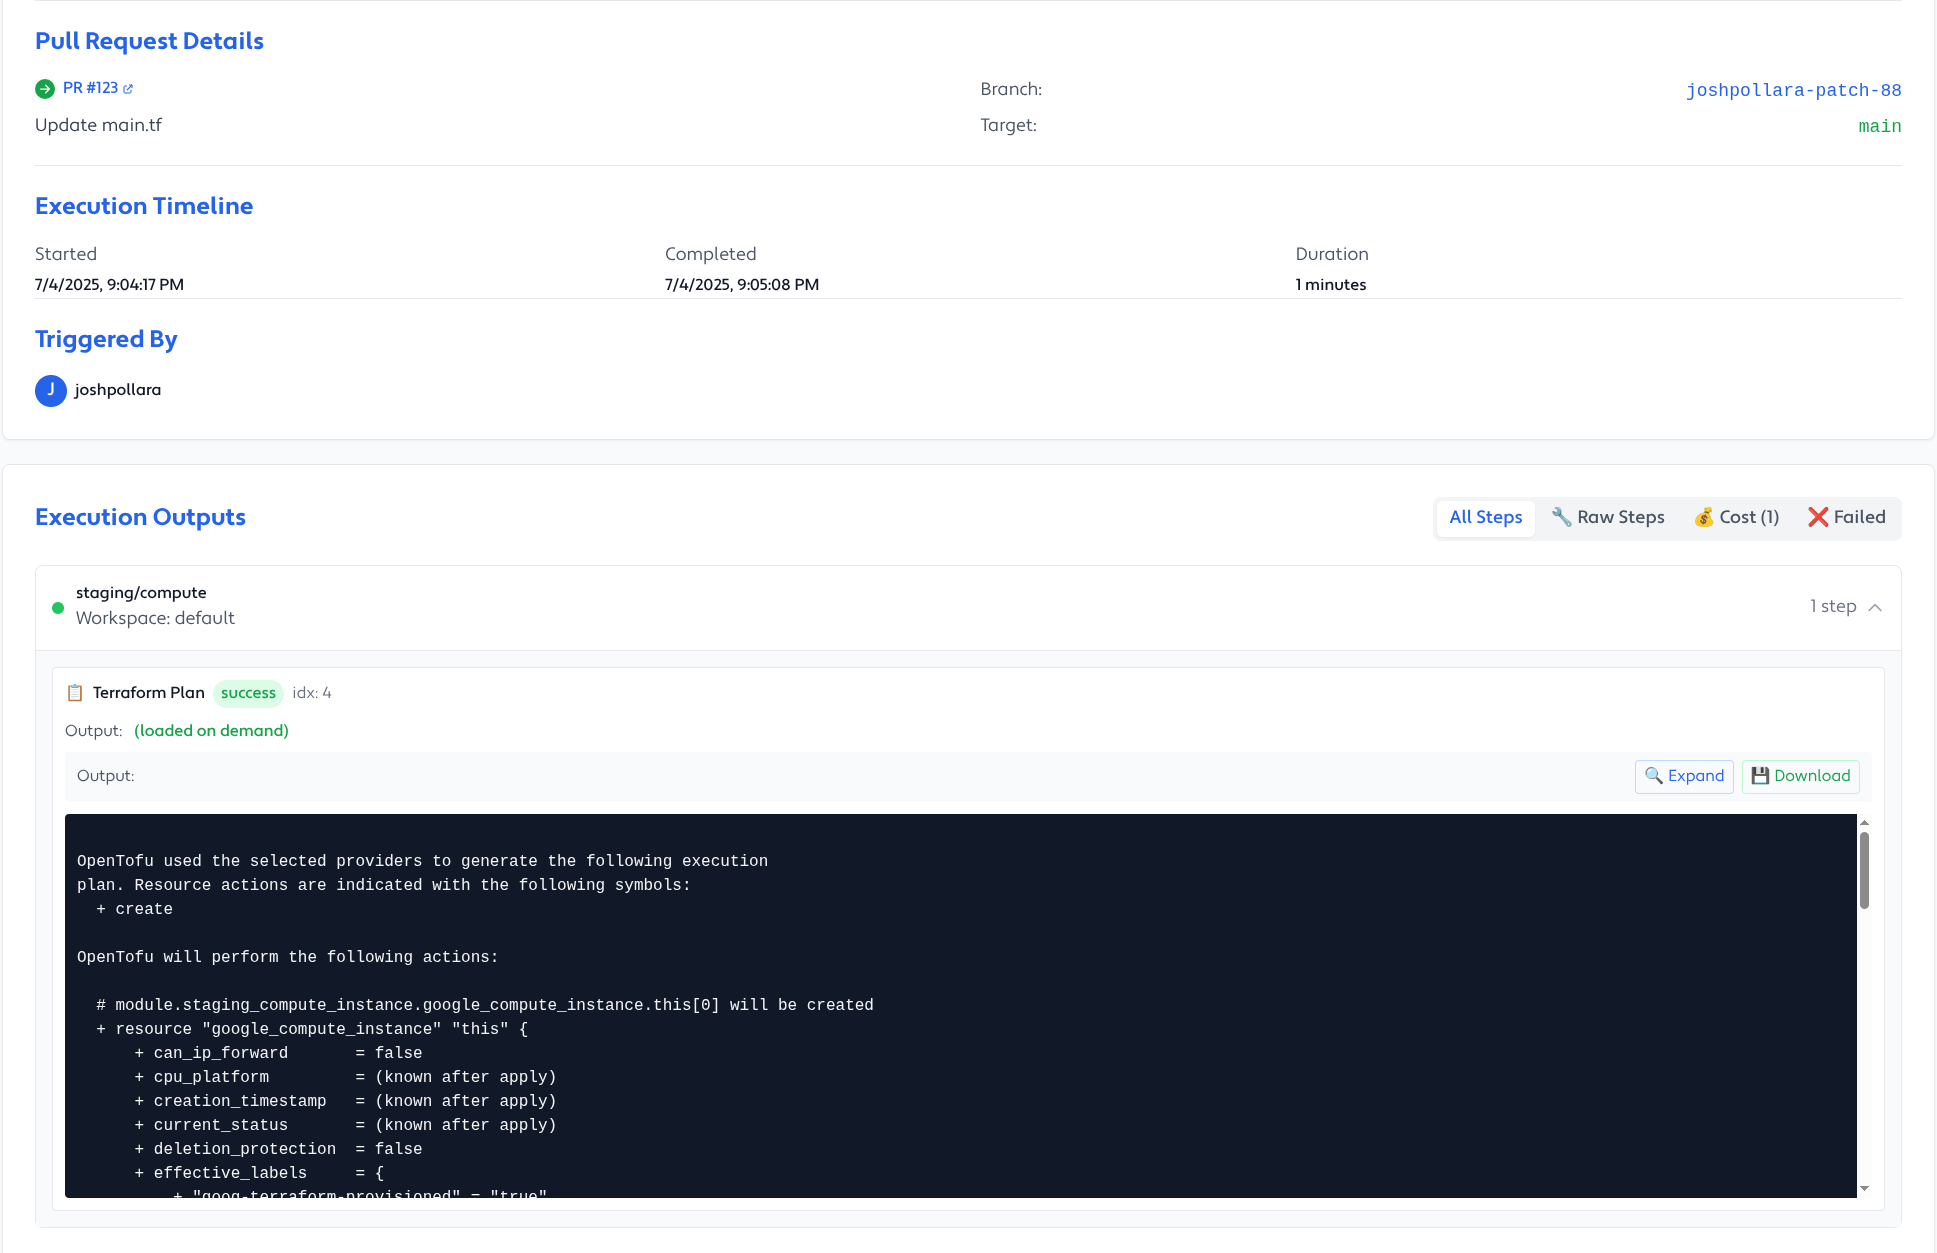
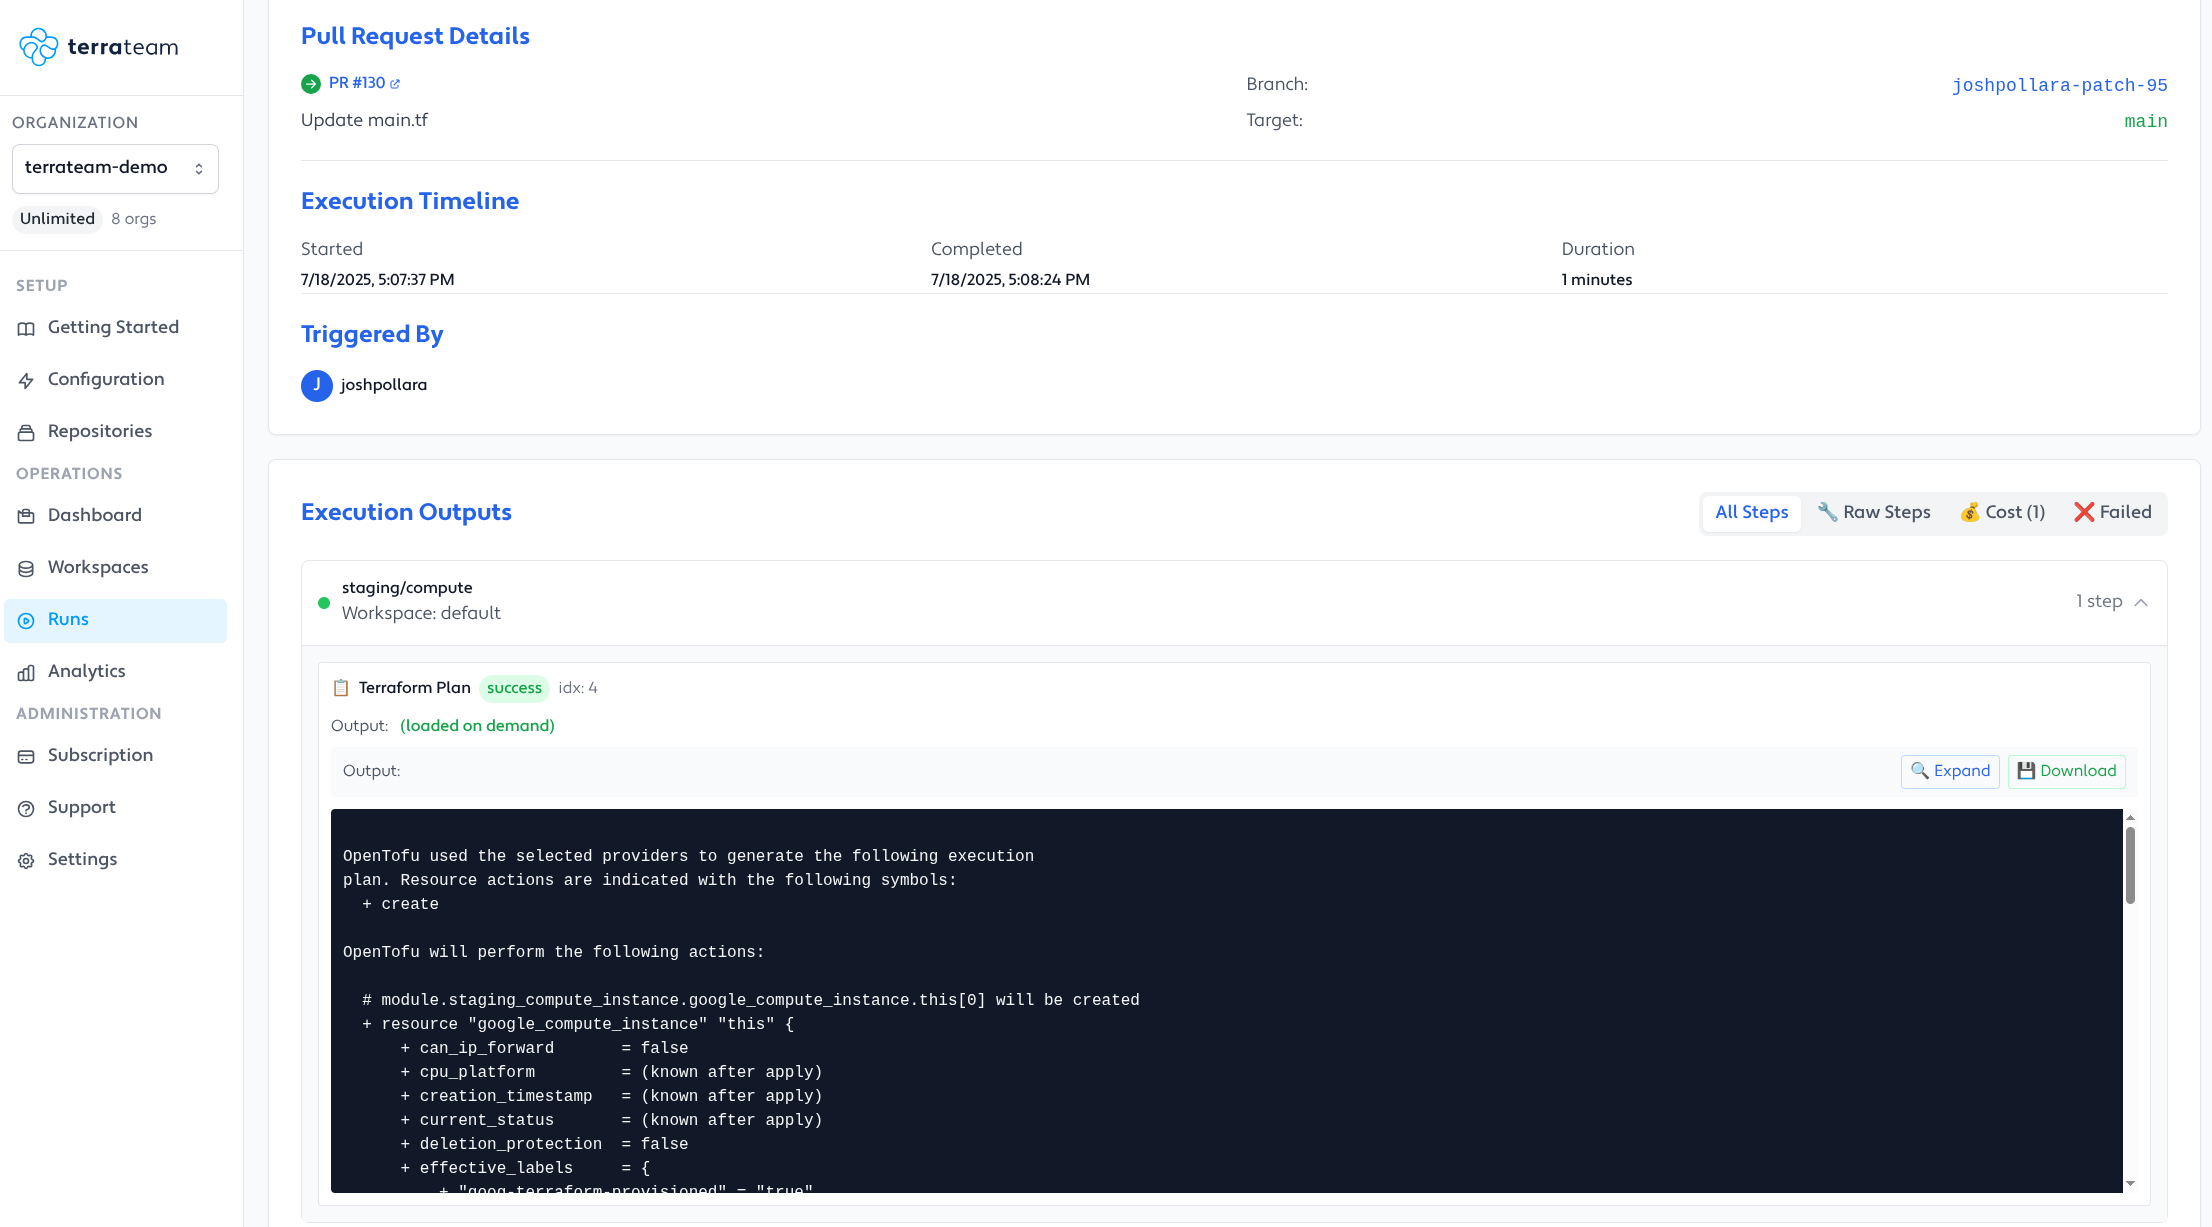
#634 REFACTOR showcase UI in README

diff --git a/README.md b/README.md
@@ -25,34 +25,15 @@ Terrateam automates Terraform plans and applies in pull requests. Open source, i
 
 ---
 
-<div align="center" style="font-weight: 600; font-size: 14px; margin-bottom: 12px;">
-  Terraform plan in a PR + optional Terrateam UI
+<div align="center">
+  <img
+    src="assets/terrateam-ui.png"
+    alt="Terrateam UI - Run Dashboard"
+    width="800"
+    loading="lazy"
+    style="border-radius:8px; border:1px solid #ddd; box-shadow: 0 4px 12px rgba(0,0,0,0.1); margin: 20px 0;"
+  >
 </div>
-
-<table align="center">
-  <tr>
-    <td align="center" style="vertical-align: top;">
-      <img
-        src="assets/terrateam-pr-comment.png"
-        alt="Terrateam PR comment screenshot"
-        width="340"
-        loading="lazy"
-        style="border-radius:6px; border:1px solid #ccc; box-shadow: 0 2px 6px rgba(0,0,0,0.06);"
-      ><br>
-      <div style="font-size: 13px; margin-top: 6px;">Terrateam PR comment</div>
-    </td>
-    <td align="center" style="padding-left: 24px; vertical-align: top;">
-      <img
-        src="assets/terrateam-ui.png"
-        alt="Terrateam UI screenshot"
-        width="400"
-        loading="lazy"
-        style="border-radius:6px; border:1px solid #ccc; box-shadow: 0 2px 6px rgba(0,0,0,0.06);"
-      ><br>
-      <div style="font-size: 13px; margin-top: 6px;">Terrateam Run Dashboard</div>
-    </td>
-  </tr>
-</table>
 
 
 
